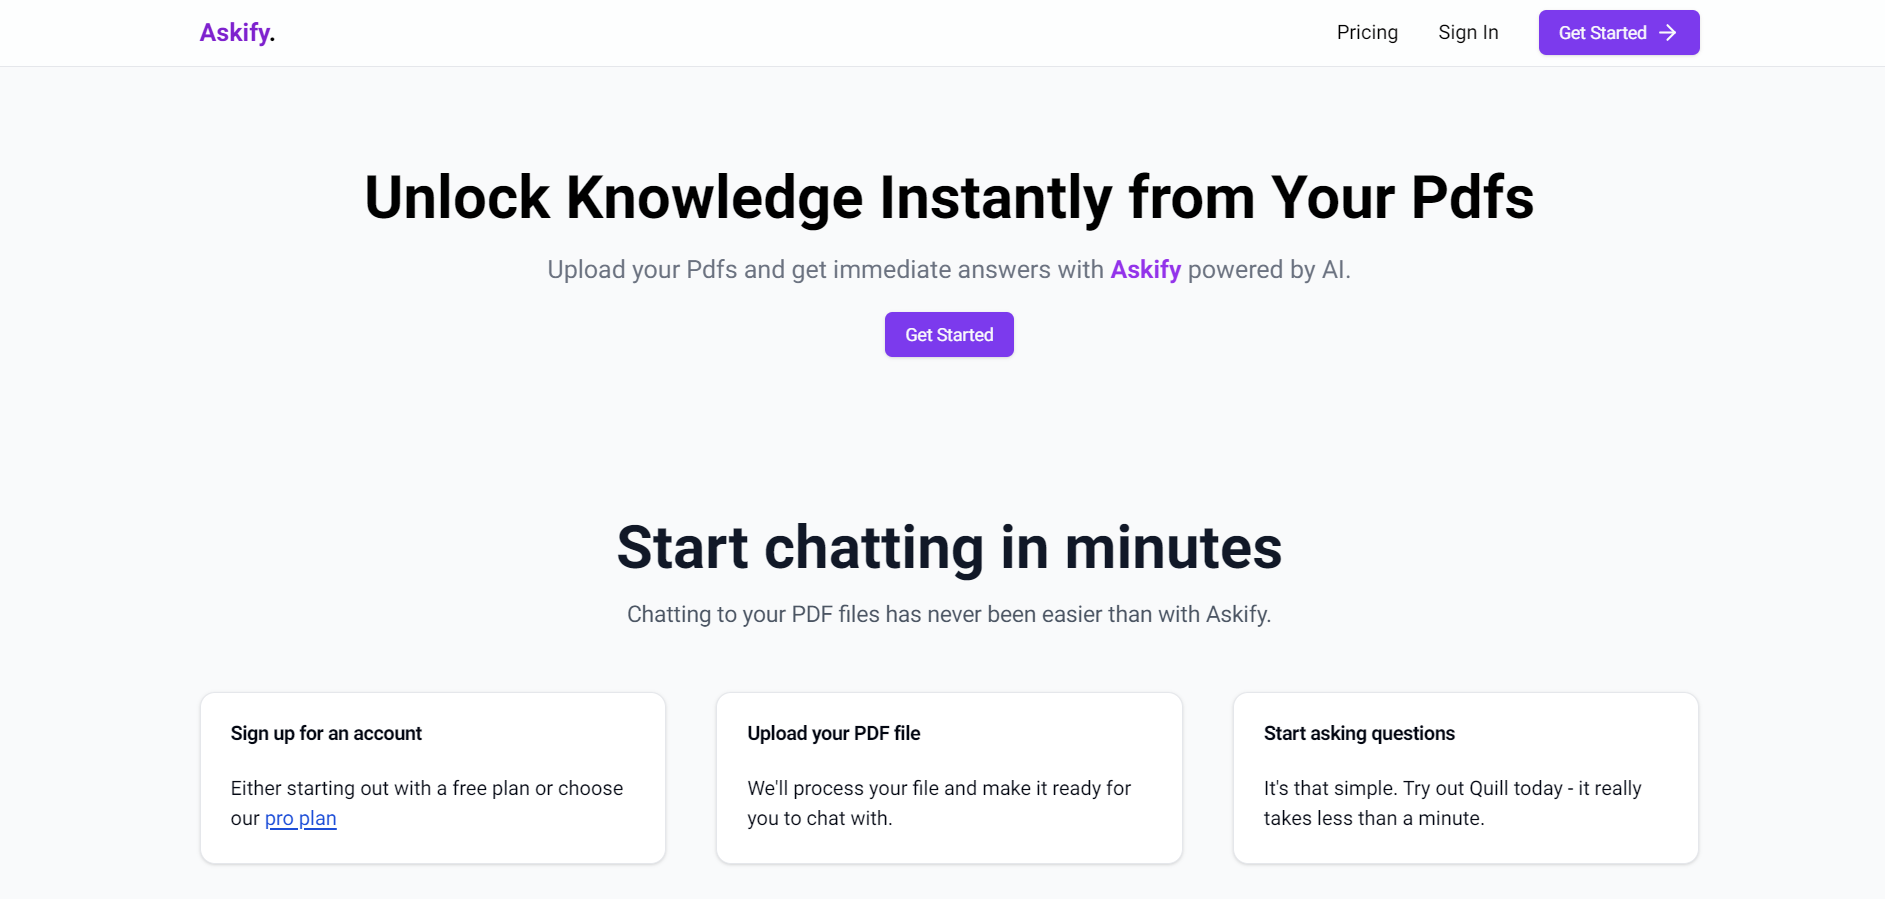
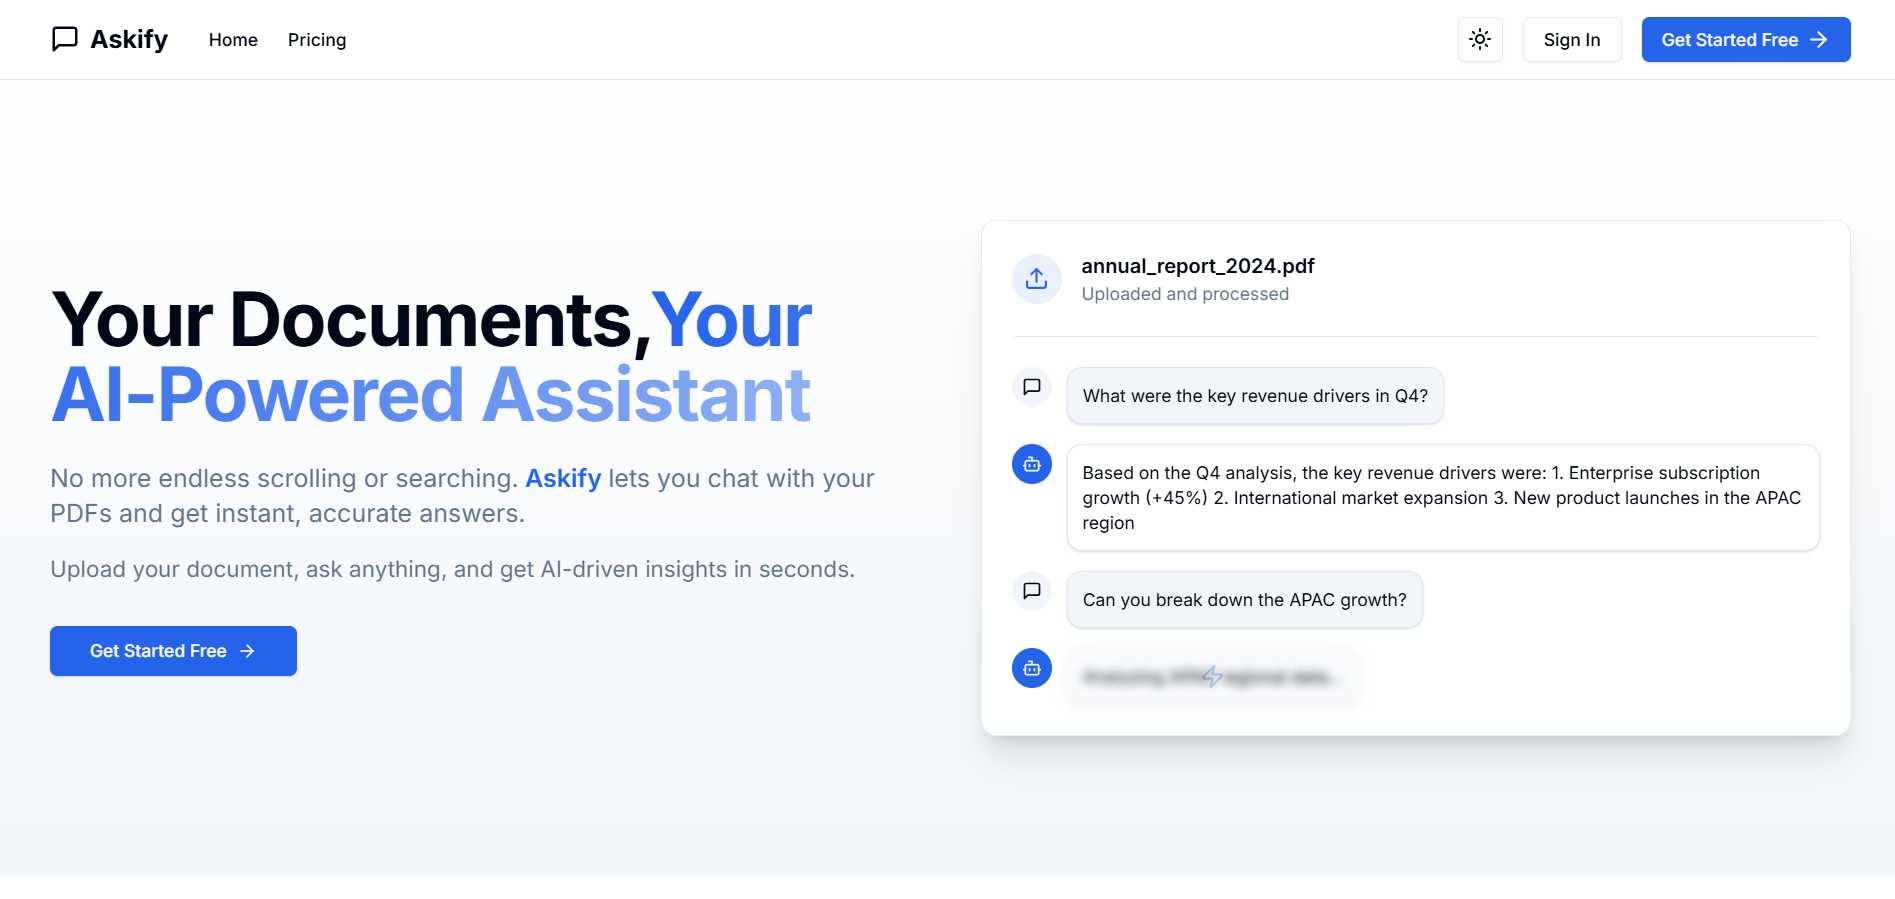
change homepage image

diff --git a/README.md b/README.md
@@ -2,7 +2,7 @@
 
 ![HomePage Preview](public/homepage.png)
 ![FileUpload Preview](public/fileupload-preview.png)
-![ChatInterface Preview](public/preview.jpg)
+![ChatInterface Preview](public/preview.png)
 
 **Askify** is a cutting-edge AI SaaS application designed to allow users to upload PDF documents and query them using advanced AI models. The platform streamlines the process of extracting meaningful insights and answers from large PDF documents, making it ideal for researchers, professionals, and anyone handling a large amount of textual data.
 
